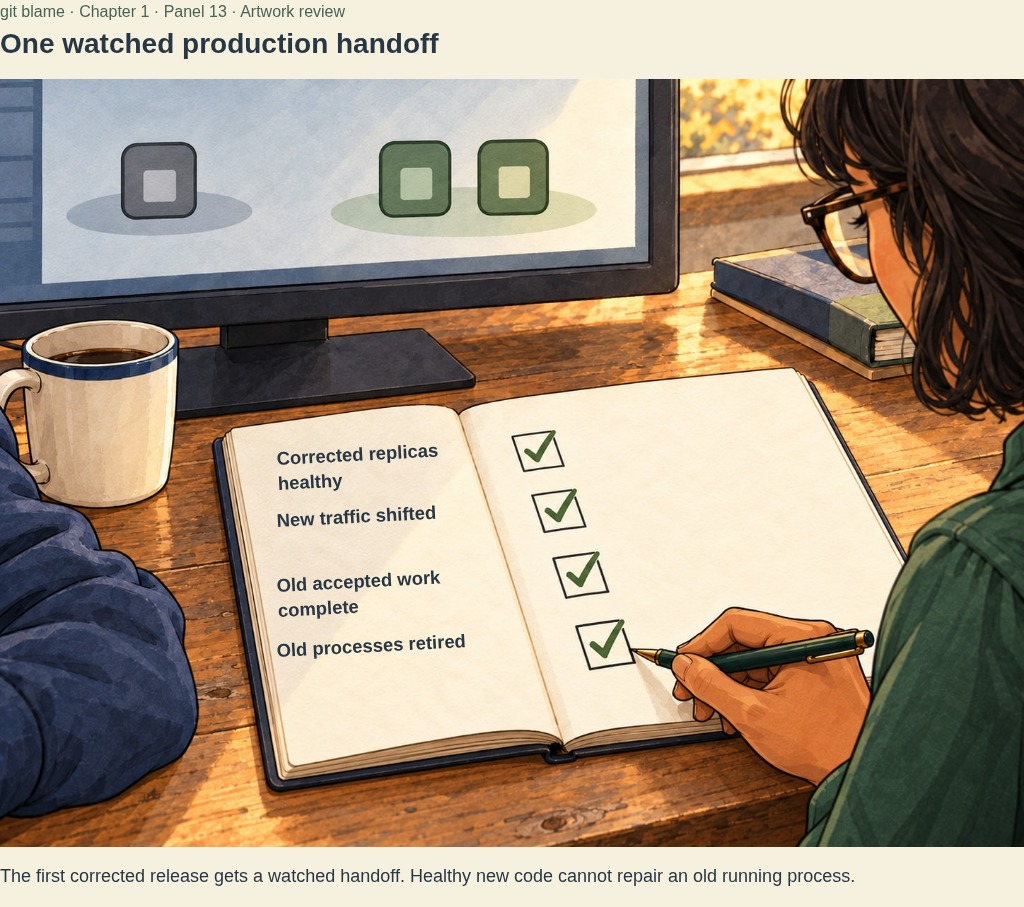
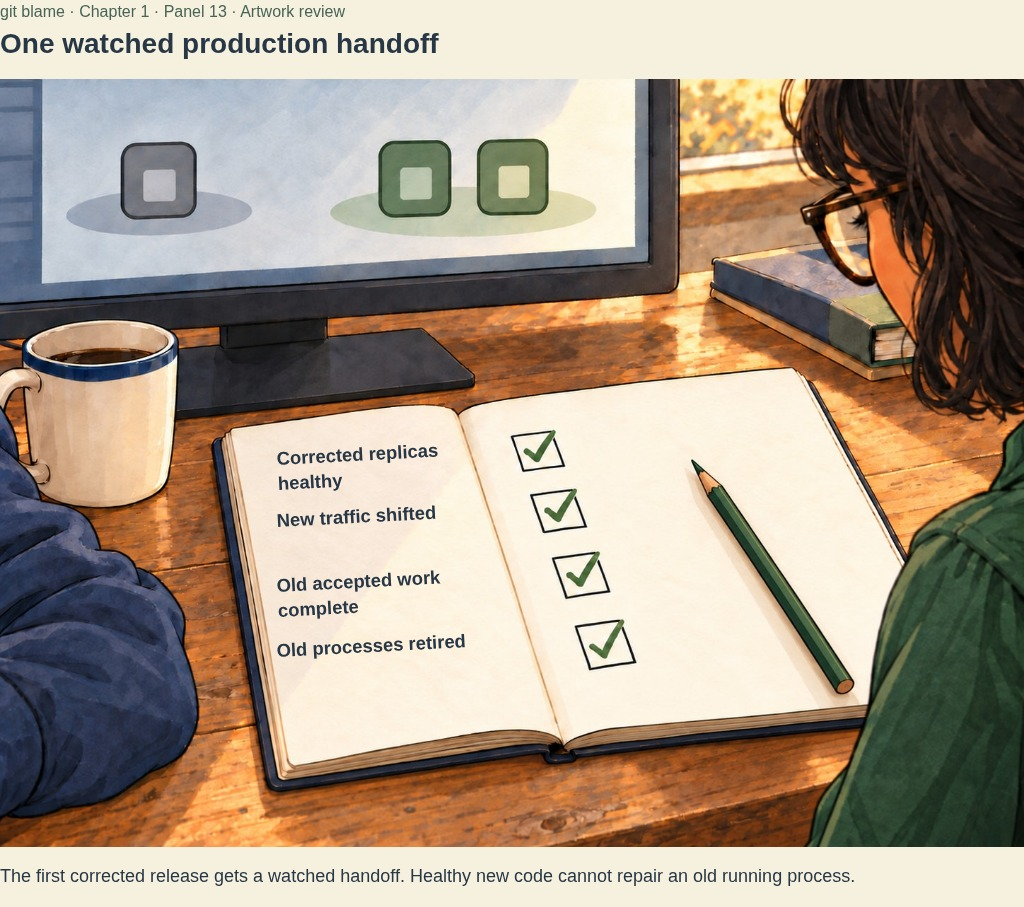
Restage handoff artwork with a credible resting pencil

diff --git a/docs/comics/git-blame/chapter-01/expanded-art-review/review.html b/docs/comics/git-blame/chapter-01/expanded-art-review/review.html
@@ -377,7 +377,7 @@
               src="panel-13-handoff-source.jpg"
               width="1448"
               height="1086"
-              alt="Maya carefully checks the fourth and final box in a paper notebook. Alex's navy sleeve and incident mug remain beside her. A supporting deployment screen shows corrected replacement pods separately from the old pod, with no transfer arrow."
+              alt="Maya reviews a completed four-step handoff checklist. A single straight green coloured pencil rests on the notebook's right page, clear of all four checks. Alex's navy sleeve and incident mug remain beside her; the supporting screen shows two corrected pods separate from one old pod."
             />
             <ol aria-label="Ordered production handoff checks">
               <li

diff --git a/docs/comics/git-blame/chapter-01/expanded-art-review/README.md b/docs/comics/git-blame/chapter-01/expanded-art-review/README.md
@@ -46,19 +46,29 @@ Exactly two tracks. The accepted request stays continuous across the amber shutd
 
 ## 13. One watched production handoff
 
-![Maya completes the last check of the watched handoff.](panel-13-handoff-desktop.jpg)
+![Maya reviews the completed watched handoff.](panel-13-handoff-desktop.jpg)
 
 [Source art](panel-13-handoff-source.jpg) · [Phone](panel-13-handoff-phone.jpg) · [320px phone](panel-13-handoff-narrow-phone.jpg) · [Enlarged text](panel-13-handoff-enlarged-text.jpg)
 
 Four ordered checks: corrected replicas healthy; new traffic shifted; old accepted work complete; old processes retired. A corrected release cannot inject a new shutdown handler into an old process. The first handoff keeps old processes alive until withdrawal and accepted-work completion; later rollouts use the tested handler.
 
+### Writing-tool correction
+
+The user caught a defect missed in the original visual review: the ornate pen's point met the checkbox border while its tick was already complete. Two local edits simplified the pencil but failed to make point-to-mark contact convincing. Those masters are retained as superseded. The selected revision stages the handoff just finished: a straight sharpened green coloured pencil rests on the paper beside four completed checks. The left-page lettering and technical sequence remain separate source data.
+
+![Native-scale detail of the revised pencil and completed checklist.](panel-13-pencil-detail.jpg)
+
+This is a browser-captured detail crop for visual inspection, not a cropped or retouched source master. The full source retains its original dimensions. Layout checks do not assess drawing quality; the close-up is an additional manual review of the object and its staging.
+
 ## Source records and reuse
 
 [panels.json](panels.json) contains source paths, editable status/code/checklist wording, actual reviewed label positions, image descriptions and technical caveats. Your frontend agent can consume these when interleaving the revised chapter. The image model drew every depicted hand, object, routing path and timeline; HTML supplies only exact lettering. On phones and enlarged text, it becomes ordered text below uncropped art. No new dependency or website component was added.
 
-[manifest.json](manifest.json) records all nine generation calls: six initial images and three refinements, resulting in six selected candidate masters. Earlier versions remain marked as superseded. Each record includes the exact prompt, actual tool output filename, reference chain, dimensions and SHA-256. Masters retain the model's actual resolution without upscaling; JPEGs are full-image quality-90 review encodings. The approved character sheets remain the identity anchors. These candidates are not declared final or approved.
+[manifest.json](manifest.json) records twelve generation calls: six initial images and six refinements, resulting in six selected candidate masters. Earlier versions remain marked as superseded. Each record includes the exact prompt, actual tool output filename, reference chain, dimensions and SHA-256. Masters retain the model's actual resolution without upscaling; JPEGs are full-image quality-90 review encodings. The approved character sheets remain the identity anchors. These candidates are not declared final or approved.
 
-The refinements removed the cutaway's physical hut treatment, cleaned the customer's error/keyboard lettering, and corrected the handoff's replica symbols and writing clearance. The final handoff lettering uses the notebook's clear left page opposite its four checks, away from the pen and hand. Manual review covered natural hands, recognizable cuffs/profile/props, diagrams, actual code and final desktop composition.
+The refinements removed the cutaway's physical hut treatment, cleaned the customer's error/keyboard lettering, and corrected the handoff's replica symbols, writing clearance and tool staging. The final handoff lettering uses the notebook's clear left page opposite its four checks, clear of the resting pencil. Manual review covers recognizable cuffs/profile/props, diagrams, exact code and final composition; the missed writing-tool defect above records the limit of that earlier pass.
+
+Generation uses OpenAI's built-in `image_gen.imagegen` tool. Its exposed arguments support prompts and image references but provide no model selector or underlying model identifier. No specific model/version is asserted in the source records. Switching or naming a particular model is not a capability of this tool interface.
 
 ## Verification and reproducing the review
 

diff --git a/docs/comics/git-blame/chapter-01/panel-expansion-proposal.md b/docs/comics/git-blame/chapter-01/panel-expansion-proposal.md
@@ -110,6 +110,6 @@ Reference the approved character sheets for the exact human identity; vary frami
 
 The user directed work toward images after receiving this sequence. Panel 7 has been generated and rendered with its real trace labels at desktop and phone sizes. It tests whether the technical detail is both attractive and accurate without repeating the desk-conversation formula. Its source remains text-free; editable labels, captures and source provenance are in the [technical proof review](technical-proof/README.md).
 
-The user's subsequent request authorized more generation and a PR update. Six further inserts have now been generated and reviewed with editable lettering. Three needed refinements for technical symbols or writing clearance. The full fourteen-panel sequence is available as a repository art review. The original briefs above remain the planned compositions; [the batch data](expanded-art-review/panels.json) and source prompts record actual reviewed geometry, including handoff labels on the notebook's clear left page.
+The user's subsequent request authorized more generation and a PR update. Six further inserts have now been generated and reviewed with editable lettering. Refinements addressed technical symbols, writing clearance and the user's later writing-tool critique. The full fourteen-panel sequence is available as a repository art review. The original briefs above remain the planned compositions; [the batch data](expanded-art-review/panels.json) and source prompts record actual reviewed geometry, including handoff labels on the notebook's clear left page. The latest handoff image shows the checklist completed, with a plain coloured pencil resting on the paper, rather than an active writing gesture; the hand/tool contact in earlier attempts was not convincing.
 
 After final art review, integrate the chosen sequence and update runtime counts, Under the Hood where necessary, social selection and PDF pagination together. The current seven-panel reader and PDF remain truthful review editions in the meantime. Further website design was outside this generation update.
